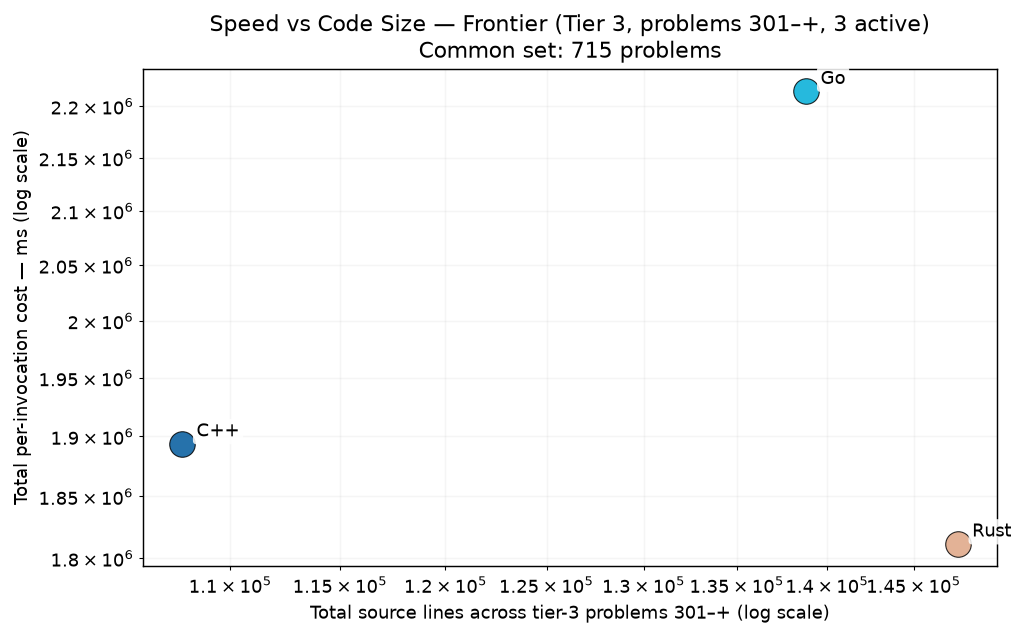
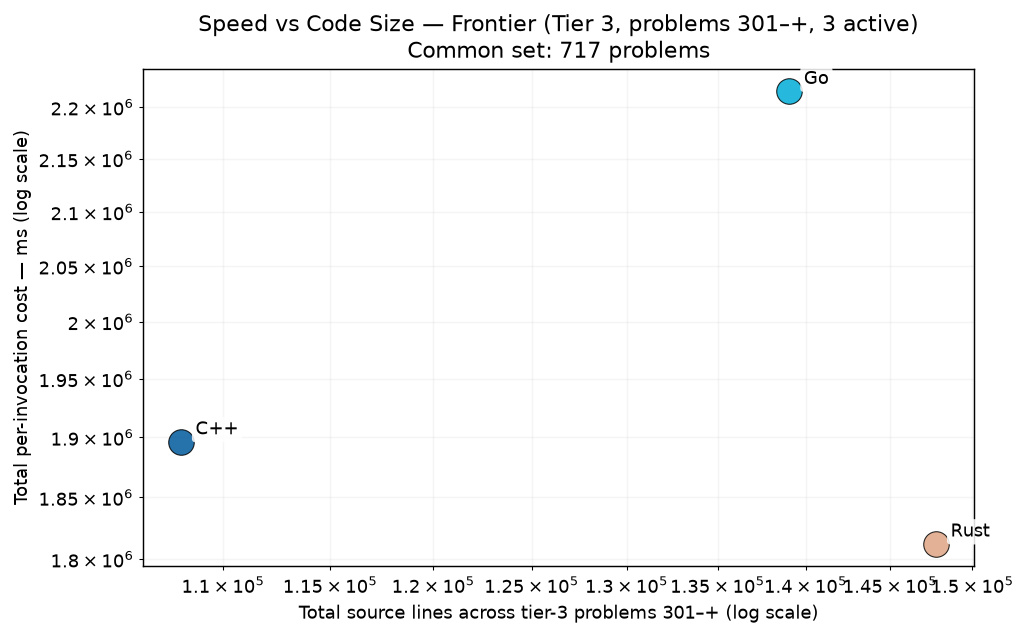
Add 1016, 1017 trios

diff --git a/report.py b/report.py
@@ -70,7 +70,7 @@ _T3_LO = tier_problem_range("tier_3_frontier", _TIERS)[0] or 301
 # PE_MAX = highest problem PE has published. The ONE number to bump when PE
 # publishes more (1015 as of 2026-10-18). Both the stats/coverage scope and the
 # coverage grid derive from it, so they cannot drift apart by accident.
-PE_MAX = 1015
+PE_MAX = 1017
 _DISPLAY_HI = max(_T2_HI, PE_MAX)
 
 # Parallel-class problems (METHODOLOGY.md §5) — rows on these problems are

diff --git a/RESULTS.md b/RESULTS.md
@@ -1,12 +1,12 @@
 # Project Euler — Cross-Language Benchmarks
 
-> **Scope: 4545 in-scope cells across 1015 problems × tiered languages — 4545 measured (100.0% coverage).**
+> **Scope: 4551 in-scope cells across 1017 problems × tiered languages — 4551 measured (100.0% coverage).**
 > The cross-language ranking below is computed over the **200-problem common set** (problems in 1-200 where every language has a passing measurement) — the apples-to-apples Foundation comparison surface.  Per-tier rankings and coverage detail appear further below.
 > Growing carefully — each new problem and language is audited for state-leak
 > safety, verified for answer correctness, and added only when it cleanly fits the
 > measurement methodology.  See [JOURNEY.md](JOURNEY.md) for the full story of how
 > we got here, including the reset from 200+ problems back to a verified 10×10
-> core, then the disciplined expansion to today's 1015-problem scope.
+> core, then the disciplined expansion to today's 1017-problem scope.
 
 ## Foundation — Tier 1 (10 languages, problems 1-200)
 
@@ -70,15 +70,15 @@ Same scatter as the Foundation chart, restricted to the tier-2 active languages 
 
 The frontier verification trio — C++, Go, Rust — on problems above 300. 3-way cross-language agreement is the verification protocol (strictly stronger than 2-way; see JOURNEY.md "Tier Reframing" episode for the p254 lesson that motivated it). Python and Zig are explicitly out of this tier — python's wall cost makes it impractical at level 5+, and zig's role caps at Tier 2.
 
-### Per-Invocation Cost (Common Set, 715 of ≤715 problems in scope)
+### Per-Invocation Cost (Common Set, 717 of ≤717 problems in scope)
 
 ![Per-Invocation Cost — Tier 3](charts/per_iter_total_tier3.png)
 
-| Rank | Language | Geomean (715-problem common set) | Total (sum) | Lines of code | vs Fastest |
+| Rank | Language | Geomean (717-problem common set) | Total (sum) | Lines of code | vs Fastest |
 |------|----------|--------------------:|------------:|--------------:|-----------:|
-| 1 | **Rust** | 75.99 ms | 1811.58 s | 147,602 | 1.00× |
-| 2 | **C++** | 78.41 ms | 1893.95 s | 107,881 | 1.03× |
-| 3 | **Go** | 89.57 ms | 2214.59 s | 138,831 | 1.18× |
+| 1 | **Rust** | 75.52 ms | 1812.27 s | 147,782 | 1.00× |
+| 2 | **C++** | 78.06 ms | 1896.37 s | 108,106 | 1.03× |
+| 3 | **Go** | 89.02 ms | 2215.50 s | 139,072 | 1.18× |
 
 ### Speed vs Code Size
 
@@ -129,7 +129,7 @@ Split across 11 pages, one per 100-problem band, so this main page stays navigab
 | p0701–p0800 | Frontier | 3 | [Open](per_problem/per_problem_0701-0800.md) |
 | p0801–p0900 | Frontier | 3 | [Open](per_problem/per_problem_0801-0900.md) |
 | p0901–p1000 | Frontier | 3 | [Open](per_problem/per_problem_0901-1000.md) |
-| p1001–p1015 | Frontier | 3 | [Open](per_problem/per_problem_1001-1015.md) |
+| p1001–p1017 | Frontier | 3 | [Open](per_problem/per_problem_1001-1017.md) |
 
 ## Method
 
@@ -181,7 +181,7 @@ the honest cost of the language model under a CLI-invocation workload.
 
 ### Note on Zig timings (comptime-fold bias)
 
-> Of the 1015 problems benchmarked, **roughly 20-25% of cells** are fully
+> Of the 1017 problems benchmarked, **roughly 20-25% of cells** are fully
 > constant-foldable under Zig's `-O ReleaseFast` flag: the inputs are compile-time
 > literals and the arithmetic is pure, so the optimizer reduces `solve()` to a
 > constant return.  Known fold-candidates include p001, p002, p005, p006, p009,
@@ -263,20 +263,23 @@ table never silently mixes versions (METHODOLOGY.md §4).  Current state of the
 |----------|-----------|------:|---------------|
 | **ARM64** | `Apple clang version 21.0.0 (clang-2100.3.34.2)` | 200 | 2026-10-04 |
 | **C** | `Apple clang version 21.0.0 (clang-2100.3.34.2)` | 200 | 2026-10-04 |
-| **C++** | `Apple clang version 21.0.0 (clang-2100.3.34.2)` | 1015 | 2026-10-18 |
+| **C++** | `Apple clang version 21.0.0 (clang-2100.3.34.2)` | 1015 | 2026-10-18 ⚠ mixed |
+|  | `Apple clang version 21.0.0 (clang-2100.4.1.1)` | 2 | 2026-10-31 ⚠ mixed |
 | **C#** | `10.0.401` | 200 | 2026-09-26 |
-| **Go** | `go version go1.27.1 darwin/arm64` | 1015 | 2026-10-18 |
+| **Go** | `go version go1.27.1 darwin/arm64` | 1017 | 2026-10-31 |
 | **Java** | `openjdk version "25.0.4.1" 2026-08-18 LTS` | 200 | 2026-09-25 |
 | **JavaScript** | `v24.21.0` | 200 | 2026-09-25 |
 | **Python** | `Python 3.14.7` | 318 | 2026-09-25 |
-| **Rust** | `rustc 1.98.1 (48a229cea 2026-09-01)` | 1015 | 2026-10-18 |
+| **Rust** | `rustc 1.98.1 (48a229cea 2026-09-01)` | 1017 | 2026-10-31 |
 | **Zig** | `0.15.2` | 358 | 2026-10-04 |
+
+> ⚠ **Mixed toolchains** in C++ — those columns contain cells measured under more than one compiler version.  Treat their rankings as provisional until the column is re-benched under a single toolchain.
 
 ## Reproducibility
 
 ```bash
 cd pe/benchmarks
-cmd/euler-bench/euler-bench per-iter --lang all --problems 1-1015 --write
+cmd/euler-bench/euler-bench per-iter --lang all --problems 1-1017 --write
 python3 report.py
 ```
 

diff --git a/README.md b/README.md
@@ -4,7 +4,7 @@
 ten different languages?**
 
 This repo is the public face of a long-running experiment: every Project Euler
-problem from 1 to 1015, solved by [Claude](https://claude.ai) and benchmarked on
+problem from 1 to 1017, solved by [Claude](https://claude.ai) and benchmarked on
 one fixed Apple Silicon machine across **C, C++, Rust, Go, Zig, Java, C#,
 JavaScript, Python and ARM64 assembly**. The solutions live in ten private
 repos; this repo carries the method, the measurements (rendered, never raw) and
@@ -18,7 +18,7 @@ the story of how it was built.
 |------|----------|-----------|----------|
 | **Foundation** | 1–200 | all 10 | 200/200 in every language |
 | **Deep Coverage** | 201–300 | C++, Go, Rust, Zig | 100/100 in each |
-| **Frontier** | 301–1015 | C++, Go, Rust | 715/715 — every problem PE has published |
+| **Frontier** | 301–1017 | C++, Go, Rust | 717/717 — every problem PE has published |
 
 - **Every frontier problem is solved three times, independently.** Separate
   C++, Go and Rust solvers work from the problem statement alone, never seeing

diff --git a/per_problem/per_problem_1001-1017.md b/per_problem/per_problem_1001-1017.md
@@ -1,4 +1,4 @@
-# Per-Problem Detail — Problems 1001–1015 (Frontier, 3 langs)
+# Per-Problem Detail — Problems 1001–1017 (Frontier, 3 langs)
 
 ⬅ [Back to RESULTS](../RESULTS.md)
 
@@ -23,6 +23,8 @@ in tier-1 display order (native → managed → interpreted).
 | **p1013** | 35.8 µs | 28.5 µs | 58.2 µs |
 | **p1014** | 12.9 µs | 14.8 µs | 16.0 µs~ |
 | **p1015** | 436.44 ms | 1.53 s | 280.45 ms |
+| **p1016** | 2.42 s | 682.42 ms | 909.40 ms |
+| **p1017** | 3.6 µs~ | <1 µs | 12.0 µs~ |
 
 > † — *no corroboration*: no two samples agreed within 5% even at the cell's full sample count. Diagnostic only — the reported minimum still stands; it flags a disturbed measurement environment worth re-benching (METHODOLOGY.md §3).
 
